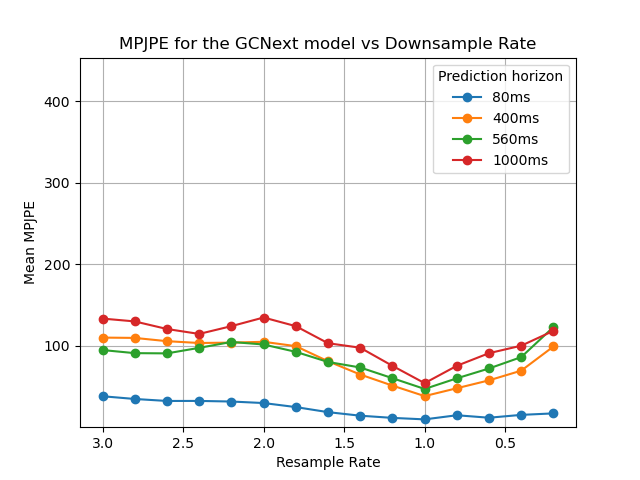
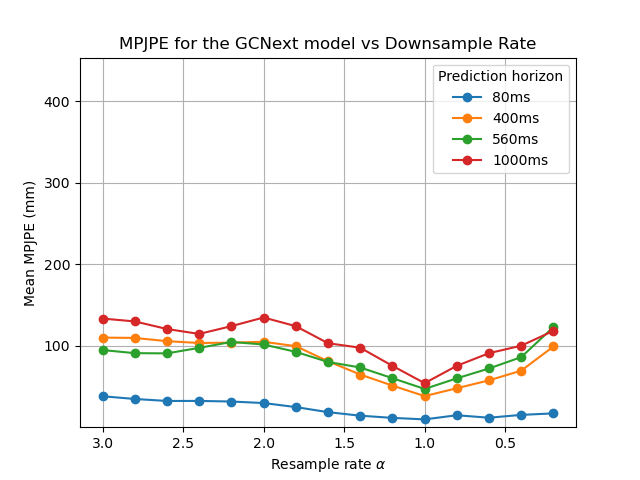
Fix axis of plots

Changed region(s): [[0.4062, 0.9375, 0.5938, 1.0], [0.0312, 0.375, 0.0625, 0.6562]]

diff --git a/exps/run/single_evaluate_physmop.py b/exps/run/single_evaluate_physmop.py
@@ -285,8 +285,8 @@ if __name__ == "__main__":
         plt.figure()
         for i, label in enumerate(["80ms", "400ms", "560ms", "1000ms"]):
             plt.plot(downsample_rates, results[:, i], marker='o', label=label)
-        plt.xlabel('Resample Rate')
-        plt.ylabel('Mean MPJPE')
+        plt.xlabel(r'Resample rate $\alpha$')
+        plt.ylabel(r'Mean MPJPE (mm)')
         plt.title(branch_titles[branch])
         plt.gca().invert_xaxis()
         plt.grid(True)
